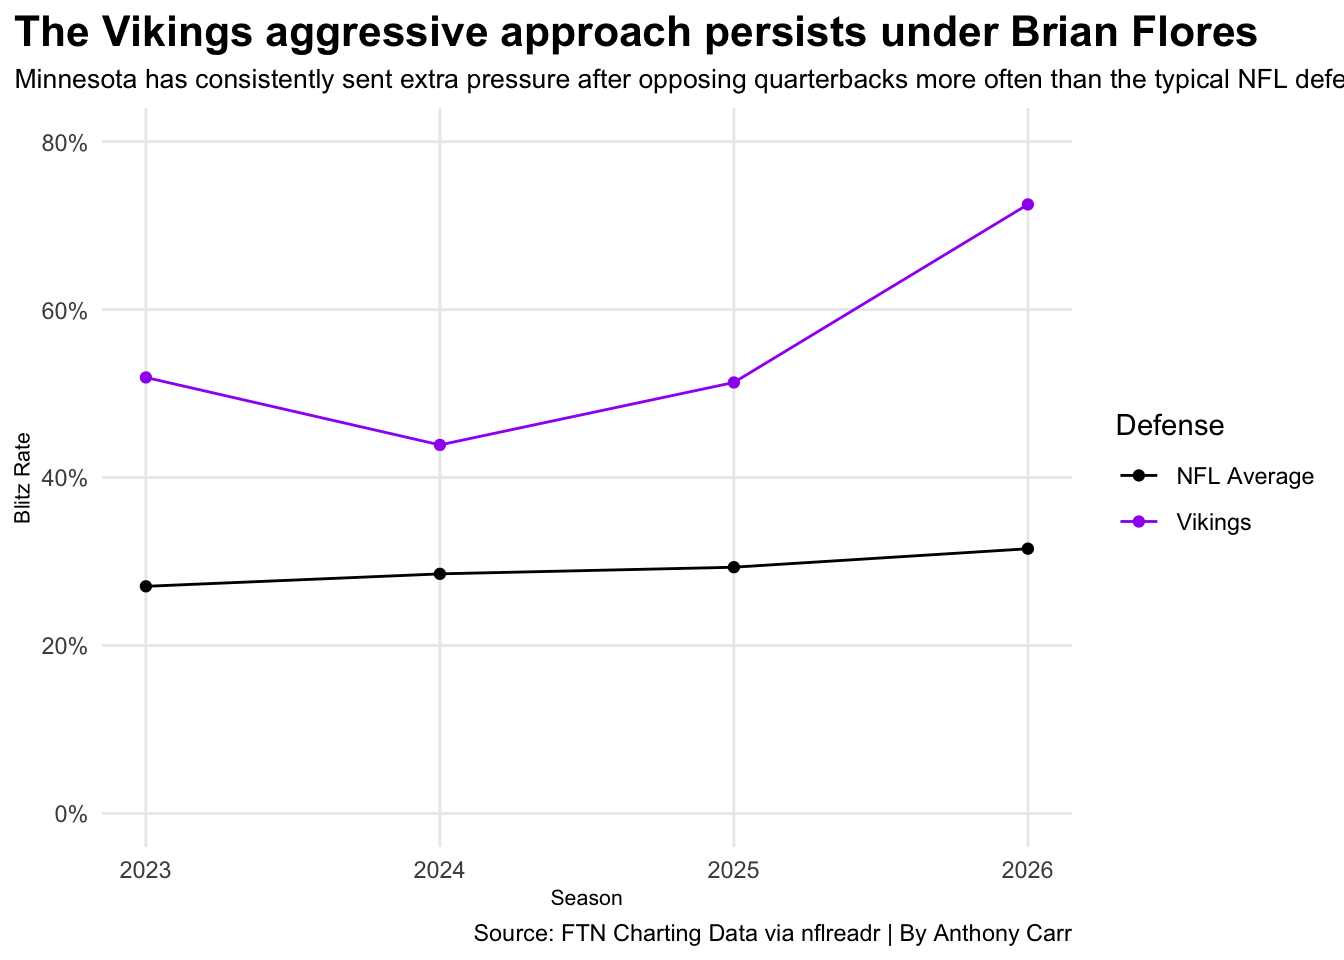
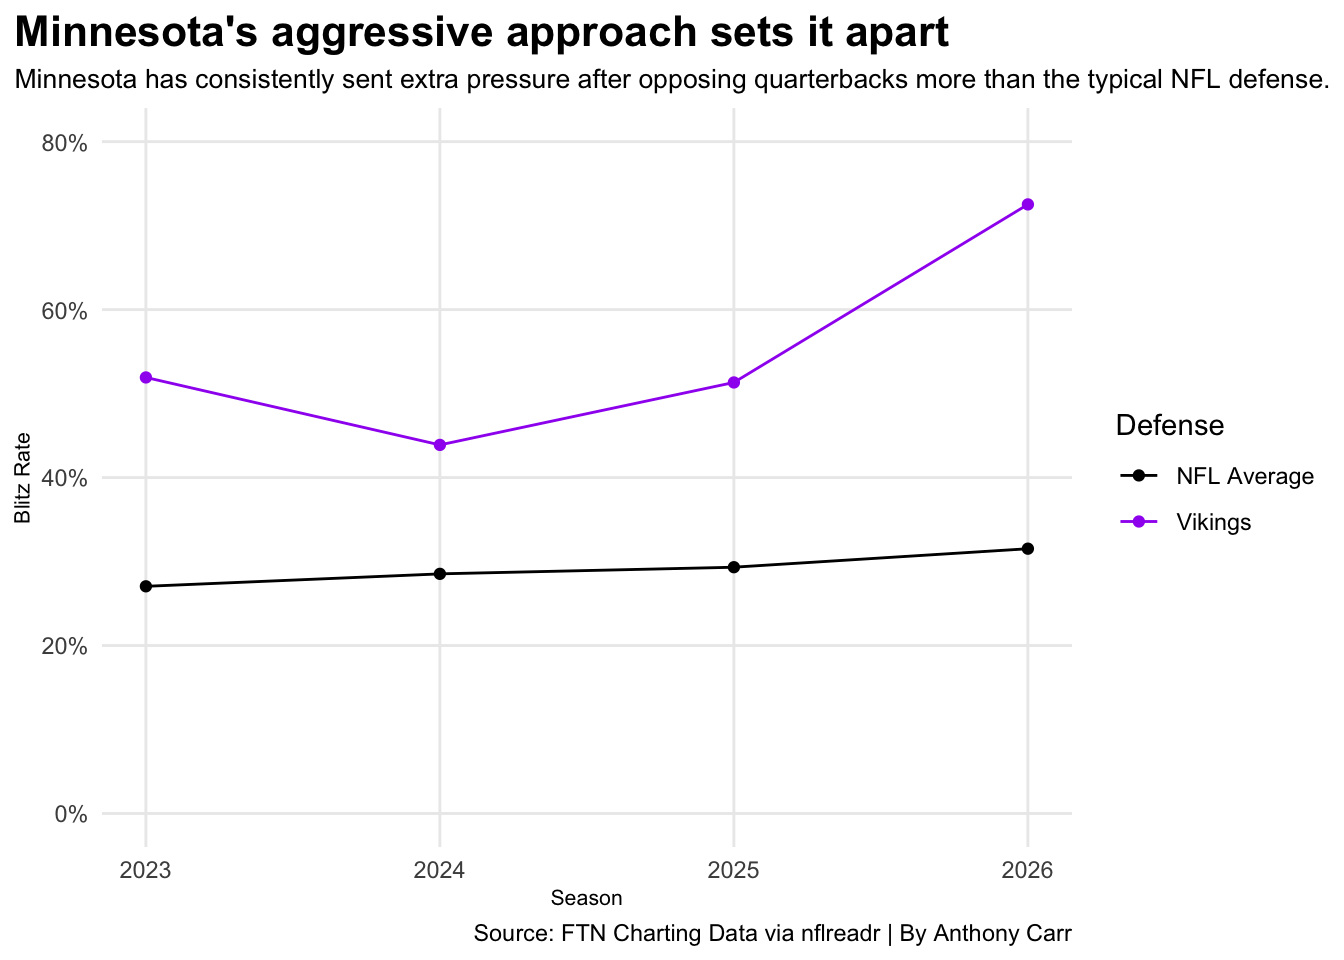
f1

Changed region(s): [[0.0, 0.0, 1.0, 0.0938]]

diff --git a/posts/minnesota-vikings-football-brianflores-defense-nfl/index.html b/posts/minnesota-vikings-football-brianflores-defense-nfl/index.html
@@ -468,8 +468,8 @@ pre > code.sourceCode > span > a:first-child::before { text-decoration: underlin
 <span id="cb1-90"><a href="#cb1-90" aria-hidden="true" tabindex="-1"></a>  <span class="fu">labs</span>(</span>
 <span id="cb1-91"><a href="#cb1-91" aria-hidden="true" tabindex="-1"></a>    <span class="at">x =</span> <span class="st">"Season"</span>,</span>
 <span id="cb1-92"><a href="#cb1-92" aria-hidden="true" tabindex="-1"></a>    <span class="at">y =</span> <span class="st">"Blitz Rate"</span>,</span>
-<span id="cb1-93"><a href="#cb1-93" aria-hidden="true" tabindex="-1"></a>    <span class="at">title =</span> <span class="st">"The Vikings aggressive approach persists under Brian Flores"</span>,</span>
-<span id="cb1-94"><a href="#cb1-94" aria-hidden="true" tabindex="-1"></a>    <span class="at">subtitle =</span> <span class="st">"Minnesota has consistently sent extra pressure after opposing quarterbacks more often than the typical NFL defense."</span>,</span>
+<span id="cb1-93"><a href="#cb1-93" aria-hidden="true" tabindex="-1"></a>    <span class="at">title =</span> <span class="st">"Minnesota's aggressive approach sets it apart"</span>,</span>
+<span id="cb1-94"><a href="#cb1-94" aria-hidden="true" tabindex="-1"></a>    <span class="at">subtitle =</span> <span class="st">"Minnesota has consistently sent extra pressure after opposing quarterbacks more than the typical NFL defense."</span>,</span>
 <span id="cb1-95"><a href="#cb1-95" aria-hidden="true" tabindex="-1"></a>    <span class="at">caption =</span> <span class="st">"Source: FTN Charting Data via nflreadr | By Anthony Carr"</span></span>
 <span id="cb1-96"><a href="#cb1-96" aria-hidden="true" tabindex="-1"></a>  ) <span class="sc">+</span></span>
 <span id="cb1-97"><a href="#cb1-97" aria-hidden="true" tabindex="-1"></a>  <span class="fu">theme_minimal</span>() <span class="sc">+</span></span>
@@ -554,7 +554,7 @@ pre > code.sourceCode > span > a:first-child::before { text-decoration: underlin
 <span id="cb2-57"><a href="#cb2-57" aria-hidden="true" tabindex="-1"></a>  <span class="fu">labs</span>(</span>
 <span id="cb2-58"><a href="#cb2-58" aria-hidden="true" tabindex="-1"></a>    <span class="at">x =</span> <span class="st">"Sack Rate"</span>,</span>
 <span id="cb2-59"><a href="#cb2-59" aria-hidden="true" tabindex="-1"></a>    <span class="at">y =</span> <span class="st">"Season"</span>,</span>
-<span id="cb2-60"><a href="#cb2-60" aria-hidden="true" tabindex="-1"></a>    <span class="at">title =</span> <span class="st">"The Vikings have made getting after the quarterback a priority"</span>,</span>
+<span id="cb2-60"><a href="#cb2-60" aria-hidden="true" tabindex="-1"></a>    <span class="at">title =</span> <span class="st">"The pressure is starting to produce results"</span>,</span>
 <span id="cb2-61"><a href="#cb2-61" aria-hidden="true" tabindex="-1"></a>    <span class="at">subtitle =</span> <span class="st">"Minnesota's sack rate compared with the league average during Brian Flores' tenure has been exceptional."</span>,</span>
 <span id="cb2-62"><a href="#cb2-62" aria-hidden="true" tabindex="-1"></a>    <span class="at">caption =</span> <span class="st">"Source: nflverse via nflreadr | By Anthony Carr"</span></span>
 <span id="cb2-63"><a href="#cb2-63" aria-hidden="true" tabindex="-1"></a>  ) <span class="sc">+</span></span>
@@ -664,7 +664,7 @@ pre > code.sourceCode > span > a:first-child::before { text-decoration: underlin
 <span id="cb3-79"><a href="#cb3-79" aria-hidden="true" tabindex="-1"></a>  <span class="fu">labs</span>(</span>
 <span id="cb3-80"><a href="#cb3-80" aria-hidden="true" tabindex="-1"></a>    <span class="at">x =</span> <span class="st">"Blitz Rate"</span>,</span>
 <span id="cb3-81"><a href="#cb3-81" aria-hidden="true" tabindex="-1"></a>    <span class="at">y =</span> <span class="st">"Average Points Allowed per Game"</span>,</span>
-<span id="cb3-82"><a href="#cb3-82" aria-hidden="true" tabindex="-1"></a>    <span class="at">title =</span> <span class="st">"How does Minnesota's pressure compare with its defensive results?"</span>,</span>
+<span id="cb3-82"><a href="#cb3-82" aria-hidden="true" tabindex="-1"></a>    <span class="at">title =</span> <span class="st">"Does all that pressure actually pay off?"</span>,</span>
 <span id="cb3-83"><a href="#cb3-83" aria-hidden="true" tabindex="-1"></a>    <span class="at">subtitle =</span> <span class="st">"Each point represents an NFL team's regular-season defense in a season from 2023 through 2026's ongoing season."</span>,</span>
 <span id="cb3-84"><a href="#cb3-84" aria-hidden="true" tabindex="-1"></a>    <span class="at">caption =</span> <span class="st">"Source: FTN Charting Data and nflverse via nflreadr | By Anthony Carr"</span></span>
 <span id="cb3-85"><a href="#cb3-85" aria-hidden="true" tabindex="-1"></a>  ) <span class="sc">+</span></span>

diff --git a/index.html b/index.html
@@ -379,7 +379,7 @@ window.Quarto = {
 
 <div class="quarto-listing quarto-listing-container-default" id="listing-listing">
 <div class="list quarto-listing-default">
-<div class="quarto-post image-right" data-index="0" data-categories="TWlubmVzb3RhJTIwVmlraW5ncyUyQ0JyaWFuJTIwRmxvcmVz" data-listing-date-sort="1794549600000" data-listing-file-modified-sort="1794546995430" data-listing-date-modified-sort="NaN" data-listing-reading-time-sort="11" data-listing-word-count-sort="2178">
+<div class="quarto-post image-right" data-index="0" data-categories="TWlubmVzb3RhJTIwVmlraW5ncyUyQ0JyaWFuJTIwRmxvcmVz" data-listing-date-sort="1794549600000" data-listing-file-modified-sort="1794600960807" data-listing-date-modified-sort="NaN" data-listing-reading-time-sort="11" data-listing-word-count-sort="2170">
 <div class="thumbnail"><a href="./posts/minnesota-vikings-football-brianflores-defense-nfl/index.html" class="no-external-icon">
 
 <img loading="lazy" src="./posts/minnesota-vikings-football-brianflores-defense-nfl/image.png" class="thumbnail-image">
